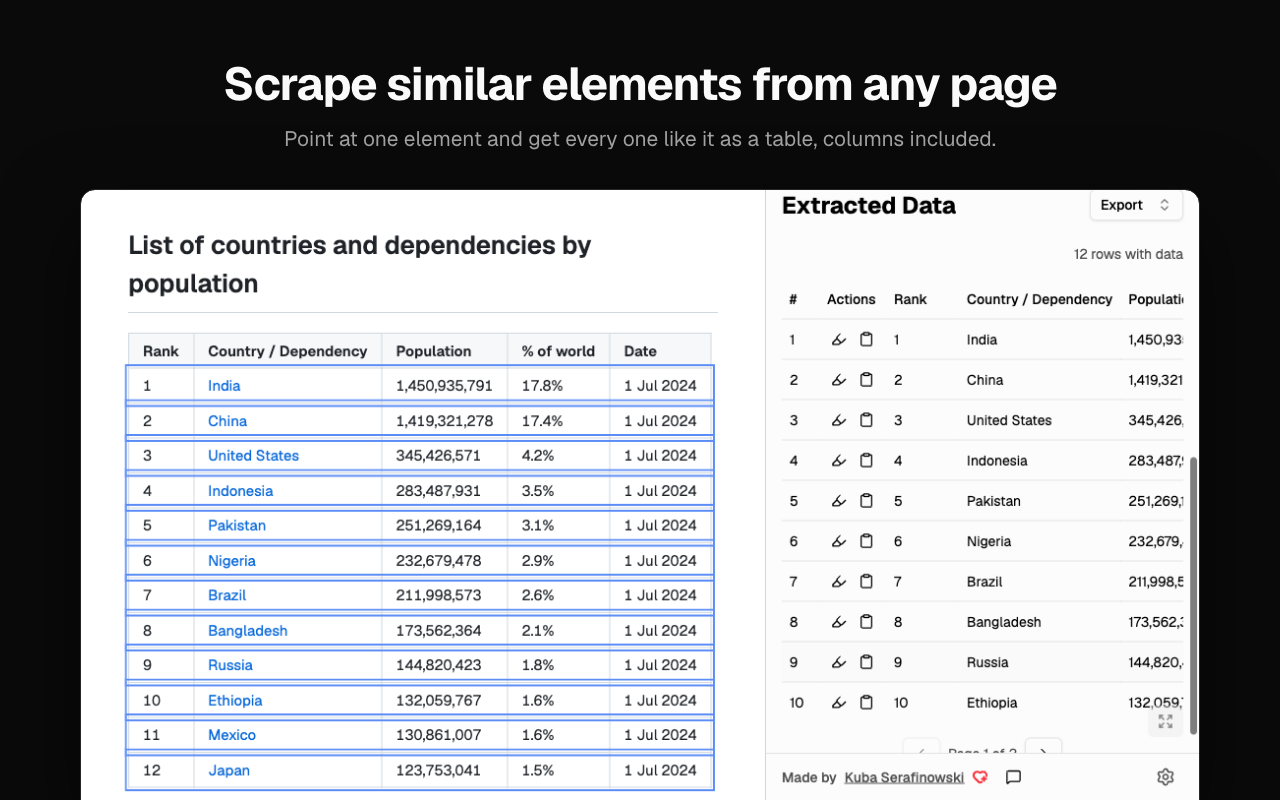
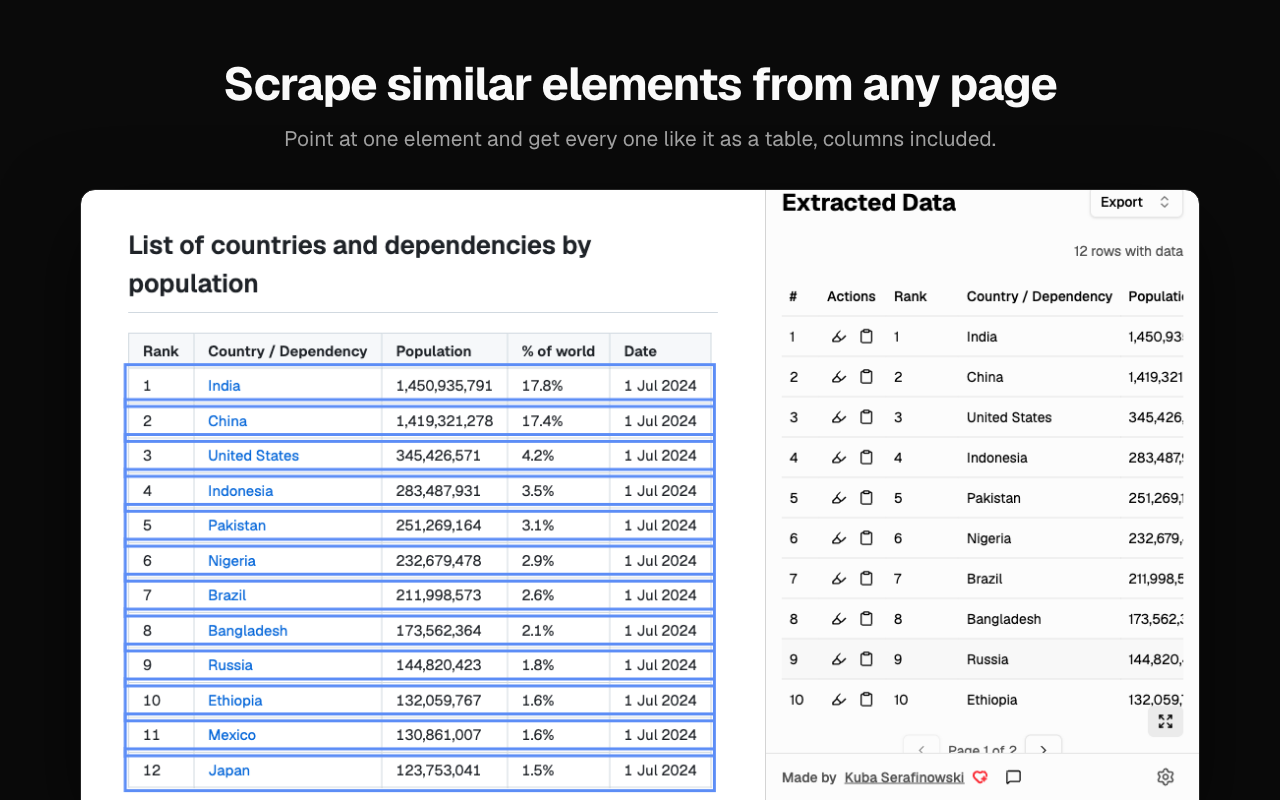
fix(store-assets): capture settled ui and keep the run opt-in
Review of the store-assets run found:
- the export menu was captured mid fade-in, so the image showed it
  half transparent; extension captures now disable animations
- the match highlight was frozen with a pause sweep that later
  highlights could race, so rows came out mid-scale on some runs; the
  earlier highlights now run out first and the replayed one becomes a
  static outline taken from its own halfway keyframe
- the picker capture waited on a class set before the banner mounts
  and the hover is processed; it now waits for the hover highlight
- a bare `playwright test` ran the store-assets project too and
  overwrote the committed images; the project now only exists when
  STORE_ASSETS is set
- the extension name came from a hard-coded test build path; it is
  read from the loaded extension's manifest
- the README overstated cross-OS determinism and when consent is
  declined

diff --git a/tests/e2e/store-assets/store-assets.spec.ts b/tests/e2e/store-assets/store-assets.spec.ts
@@ -54,12 +54,6 @@ const serveStorePage = (context: BrowserContext) => {
   )
 }
 
-const readExtensionName = () => {
-  const manifestPath = path.join(ROOT, '.output/chrome-mv3-test/manifest.json')
-  const manifest: { name: string } = JSON.parse(fs.readFileSync(manifestPath, 'utf8'))
-  return manifest.name
-}
-
 const settle = (page: Page) => page.evaluate(() => document.fonts.ready)
 
 /**
@@ -80,10 +74,10 @@ const expectGeistLoaded = (page: Page) =>
 test('store assets', async ({ browser, context, serviceWorker, openSidePanel }, testInfo) => {
   test.setTimeout(120_000)
   const raw = (name: string) => testInfo.outputPath(`${name}.png`)
-  const extensionName = readExtensionName()
 
   // Consent off keeps PostHog from ever starting; light theme pins the captures.
   await TestHelpers.dismissAnalyticsConsent(serviceWorker)
+  const extensionName = await serviceWorker.evaluate(() => chrome.runtime.getManifest().name)
   await serviceWorker.evaluate(() => chrome.storage.local.set({ theme: 'light' }))
   await serveStorePage(context)
 
@@ -99,10 +93,16 @@ test('store assets', async ({ browser, context, serviceWorker, openSidePanel }, 
   await page.setViewportSize(WIDE_SHOT_SIZE)
   await sidePanel.getByLabel(/open visual picker/i).click()
   await page.bringToFront()
-  await page.getByRole('link', { name: 'China' }).hover()
   await expect(page.locator('html.scrape-similar-picker-active')).toHaveCount(1)
+  await page.getByRole('link', { name: 'China' }).hover()
+  // The class above is set before the banner mounts and the hover is processed;
+  // the outline on the last match only exists once both have happened.
+  await expect(page.getByRole('link', { name: 'Japan' })).toHaveCSS(
+    'outline-color',
+    'rgb(255, 107, 107)',
+  )
   await settle(page)
-  await page.screenshot({ path: raw('picker') })
+  await page.screenshot({ path: raw('picker'), animations: 'disabled' })
   await page.keyboard.press('Escape')
   await expect(page.locator('html.scrape-similar-picker-active')).toHaveCount(0)
 
@@ -126,8 +126,13 @@ test('store assets', async ({ browser, context, serviceWorker, openSidePanel }, 
   await extractedData.evaluate((heading) => heading.scrollIntoView({ block: 'start' }))
   await settle(sidePanel)
   await expectGeistLoaded(sidePanel)
-  // The match highlight is a 3s animation that ends with no outline at all, so
-  // it is replayed and frozen halfway, past the keyframes that scale the rows.
+  // The match highlight is a 3s animation that ends with no outline at all.
+  // Earlier highlights (selector validation, the scrape) are let run out, then
+  // it is replayed and each row is given the outline of the animation's
+  // halfway keyframe as a static style, so no running animation reaches the capture.
+  await expect
+    .poll(() => page.evaluate(() => document.getAnimations().length), { timeout: 10_000 })
+    .toBe(0)
   await serviceWorker.evaluate(
     async ({ url, selector, type }) => {
       const [tab] = await chrome.tabs.query({ url })
@@ -136,15 +141,24 @@ test('store assets', async ({ browser, context, serviceWorker, openSidePanel }, 
     },
     { url: STORE_PAGE_URL, selector: ROW_SELECTOR, type: MESSAGE_TYPES.HIGHLIGHT_ELEMENTS },
   )
-  await expect.poll(() => page.evaluate(() => document.getAnimations().length)).toBeGreaterThan(0)
-  await page.evaluate(() =>
-    document.getAnimations().forEach((animation) => {
-      animation.pause()
-      animation.currentTime = 1500
-    }),
+  const frozenCount = await page.evaluate(
+    () =>
+      document.getAnimations().filter((animation) => {
+        const effect = animation.effect
+        if (!(effect instanceof KeyframeEffect) || !(effect.target instanceof HTMLElement)) {
+          return false
+        }
+        const halfway = effect.getKeyframes().find((keyframe) => keyframe.computedOffset === 0.5)
+        if (!halfway) return false
+        effect.target.style.outline = String(halfway.outline)
+        effect.target.style.outlineOffset = String(halfway.outlineOffset)
+        animation.cancel()
+        return true
+      }).length,
   )
-  await page.screenshot({ path: raw('page-scraped') })
-  await sidePanel.screenshot({ path: raw('panel-scraped') })
+  expect(frozenCount).toBe(DEMO_TARGET_PAGE_FACTS.tableRows)
+  await page.screenshot({ path: raw('page-scraped'), animations: 'disabled' })
+  await sidePanel.screenshot({ path: raw('panel-scraped'), animations: 'disabled' })
 
   // Export menu.
   await sidePanel.setViewportSize(SIDE_SHOT_SIZE)
@@ -152,7 +166,7 @@ test('store assets', async ({ browser, context, serviceWorker, openSidePanel }, 
   await sidePanel.getByRole('button', { name: /^export$/i }).click()
   await expect(sidePanel.getByRole('menuitem', { name: /google sheets/i })).toBeVisible()
   await settle(sidePanel)
-  await sidePanel.screenshot({ path: raw('export') })
+  await sidePanel.screenshot({ path: raw('export'), animations: 'disabled' })
   await sidePanel.keyboard.press('Escape')
 
   // Full data view.
@@ -162,7 +176,7 @@ test('store assets', async ({ browser, context, serviceWorker, openSidePanel }, 
   await expect(fullView.locator('tbody tr')).toHaveCount(DEMO_TARGET_PAGE_FACTS.tableRows)
   await settle(fullView)
   await expectGeistLoaded(fullView)
-  await fullView.screenshot({ path: raw('full-view') })
+  await fullView.screenshot({ path: raw('full-view'), animations: 'disabled' })
 
   // Chrome draws its context menu natively, so it is composed over the page.
   const titles = await readContextMenuTitles()

diff --git a/playwright.config.ts b/playwright.config.ts
@@ -30,8 +30,11 @@ export default defineConfig({
   },
   projects: [
     { name: 'e2e', testIgnore: /store-assets\// },
-    // Regenerates the Chrome Web Store images rather than testing anything, so
-    // it only runs when named: `pnpm store-assets`.
-    { name: 'store-assets', testMatch: /store-assets\/.*\.spec\.ts/ },
+    // Regenerates the committed Chrome Web Store images rather than testing
+    // anything. A bare `playwright test` runs every project, so this one only
+    // exists when `pnpm store-assets` opts in.
+    ...(process.env.STORE_ASSETS
+      ? [{ name: 'store-assets', testMatch: /store-assets\/.*\.spec\.ts/ }]
+      : []),
   ],
 })

diff --git a/src/components/extension-page.tsx b/src/components/extension-page.tsx
@@ -1,5 +1,6 @@
-// Only the extension's own pages load the fonts. The content script's UI lives in
-// a shadow root, where @font-face does not apply, so it keeps the fallback.
+// Only the extension's own pages load the fonts. The content script's CSS is
+// injected into a shadow root, where Chrome ignores @font-face rules, so its UI
+// keeps the fallback.
 import '@fontsource-variable/geist'
 import '@fontsource-variable/geist-mono'
 import log from 'loglevel'

diff --git a/README.md b/README.md
@@ -113,10 +113,10 @@ Builds the extension in test mode, drives it with Playwright against the local f
 | `promo-marquee-1400x560.png` | 1400×560 | Marquee promo tile    |
 | `store-icon-128.png`         | 128×128  | Store icon (96px art) |
 
-- Analytics consent is set to off before any UI loads, so the run sends nothing to PostHog.
-- The theme is pinned to light, and the scrape target is served at a fixed `https://example.com/` URL, so the captures do not depend on the machine's preferences or the fixture server's port. Text is set in Geist, which the extension pages bundle and the composition inlines, so captures match across operating systems; the run fails if an extension page falls back to another font.
+- Analytics consent is declined before anything is captured. PostHog never initialises without consent, so the run sends nothing.
+- The theme is pinned to light, and the scrape target is served at a fixed `https://example.com/` URL, so the captures do not depend on the machine's preferences or the fixture server's port. The extension pages and the composed text use the bundled Geist, and the run fails if an extension page falls back to another font. Output is stable on a given OS, but font rasterisation, native scrollbars and the picker banner (a shadow-root UI that cannot load Geist) still differ between operating systems, so regenerate on one platform to keep diffs meaningful.
 - Chrome draws its context menu natively, outside the page, so that image is a drawn menu laid over a real capture of the page. Its entry titles come from the extension's own `initializeContextMenus`.
-- The run is its own Playwright project, `store-assets`. `pnpm test:e2e` runs only the `e2e` project and never regenerates the images.
+- The run is its own Playwright project, `store-assets`, which exists only when `STORE_ASSETS` is set (the script sets it), so neither `pnpm test:e2e` nor a bare `playwright test` regenerates the images.
 
 ### Browser Extension Development Mode
 
